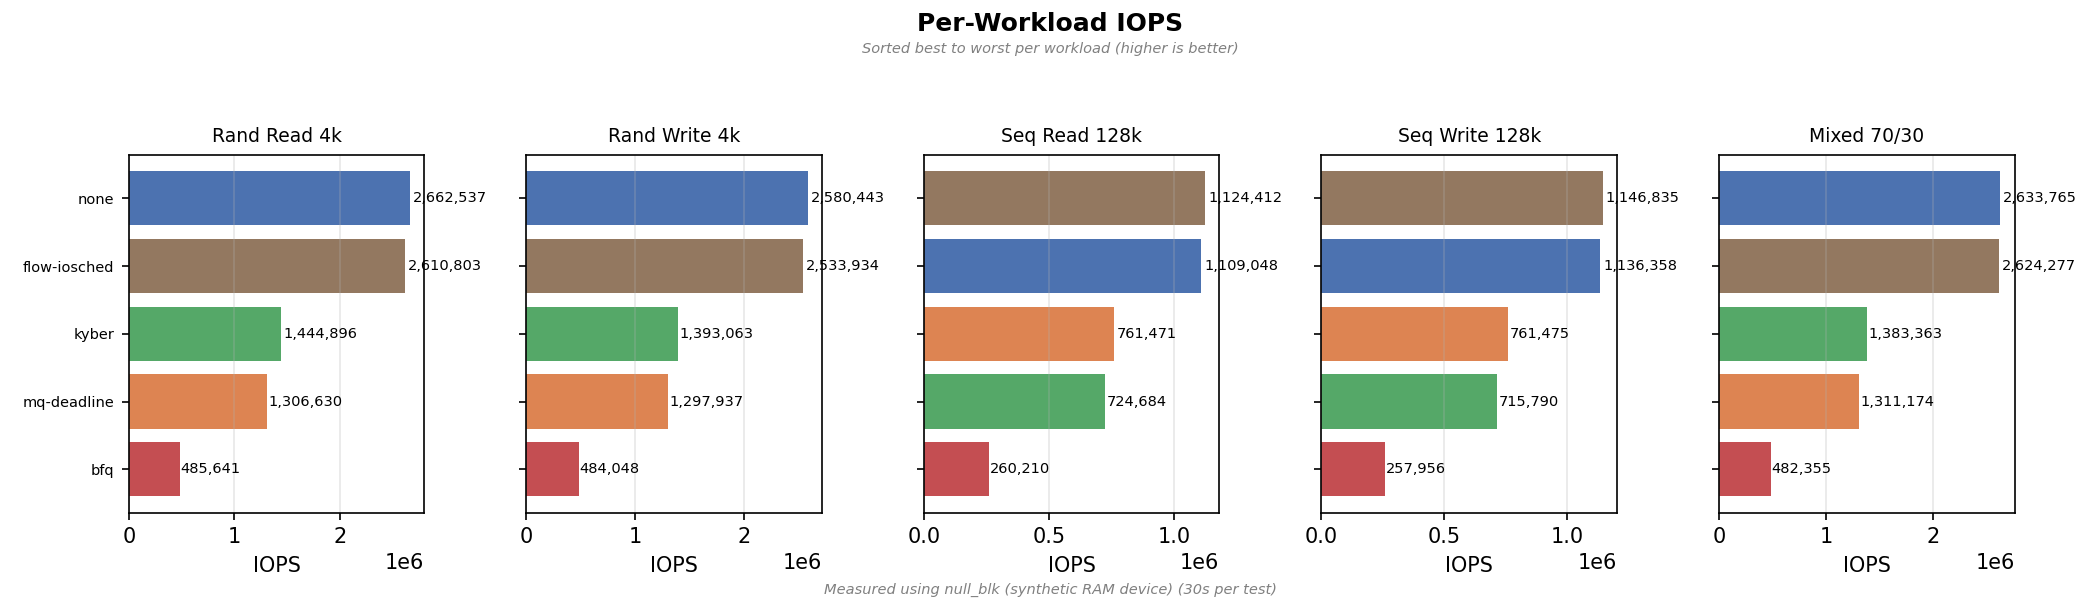
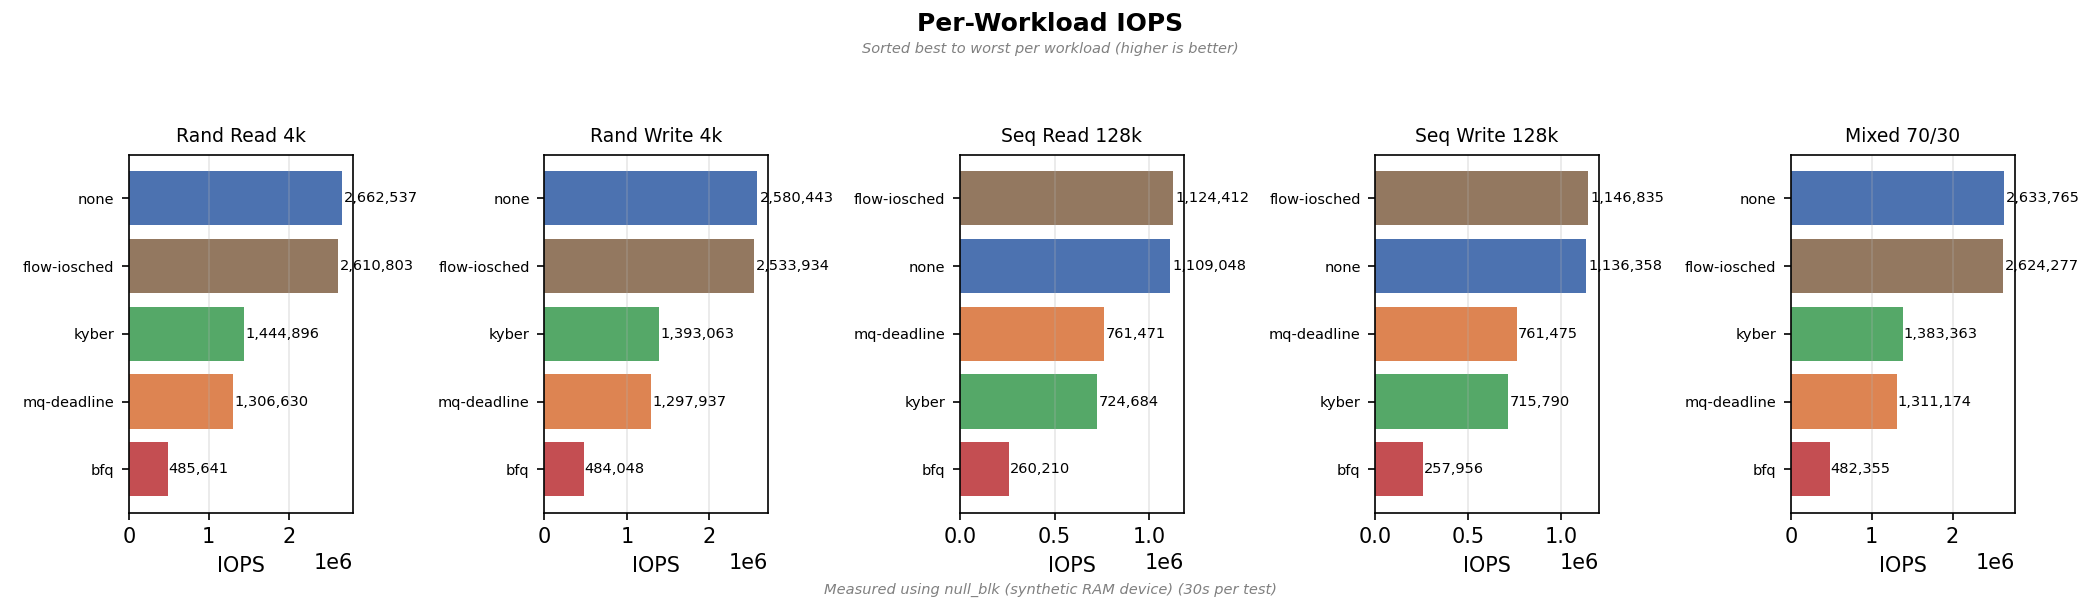
plot: fix sharey label propagation bug, xtick centering, dead code
Remove sharey=True from per_workload and comparison charts — each subplot now has its own correctly ordered y-axis labels instead of inheriting wrong labels from the last subplot. Fix group bar x-tick alignment to use width * len(schedulers) / 2 (was off by half a bar width). Clean up redundant metadata label branches.

diff --git a/bench-tests/plot-results.py b/bench-tests/plot-results.py
@@ -40,10 +40,7 @@ if os.path.isfile(META_PATH):
                 meta[k] = v
     device_label = meta.get("label", meta.get("device", "unknown"))
     runtime = meta.get("runtime", "?")
-    if meta.get("null_blk") == "true":
-        MEASUREMENT_LABEL = f"Measured using {device_label} ({runtime}s per test)"
-    else:
-        MEASUREMENT_LABEL = f"Measured using {device_label} ({runtime}s per test)"
+    MEASUREMENT_LABEL = f"Measured using {device_label} ({runtime}s per test)"
 else:
     MEASUREMENT_LABEL = ""
 
@@ -153,7 +150,7 @@ for i, sched in enumerate(sched_order_iops):
 ax.set_ylabel("Total IOPS")
 fig.suptitle("I/O Scheduler Comparison — Total IOPS", fontsize=12, fontweight="bold")
 add_sorting_note(fig, "Sorted best to worst by average total IOPS (higher is better)")
-ax.set_xticks(x + width * (len(schedulers) - 1) / 2)
+ax.set_xticks(x + width * len(schedulers) / 2)
 ax.set_xticklabels(wl_labels)
 ax.legend(loc="upper center", bbox_to_anchor=(0.5, -0.08), ncol=len(schedulers), fontsize=7)
 ax.grid(axis="y", alpha=0.3)
@@ -192,7 +189,7 @@ for i, sched in enumerate(sched_order_lat):
 ax.set_ylabel("Read latency (µs)")
 fig.suptitle("I/O Scheduler Comparison — Read Latency", fontsize=12, fontweight="bold")
 add_sorting_note(fig, "Sorted best to worst by average read latency (lower is better)")
-ax.set_xticks(x + width * (len(schedulers) - 1) / 2)
+ax.set_xticks(x + width * len(schedulers) / 2)
 ax.set_xticklabels(wl_labels)
 # Annotate write-only workloads (no read latency to show)
 for wi, wl in enumerate(workloads):
@@ -201,7 +198,7 @@ for wi, wl in enumerate(workloads):
         for row in rows if row["workload"] == wl
     )
     if all_zero:
-        ax.text(x[wi] + width * (len(schedulers) - 1) / 2, 0.08,
+        ax.text(x[wi] + width * len(schedulers) / 2, 0.08,
                 "write-only\n(no reads)", ha="center", va="bottom",
                 fontsize=6, color="gray", transform=ax.get_xaxis_transform())
 ax.legend(loc="upper center", bbox_to_anchor=(0.5, -0.08), ncol=len(schedulers), fontsize=7)
@@ -215,7 +212,7 @@ plt.close(fig)
 print(f"  → {CHARTS}/latency.png")
 
 # ── 3. Per-workload IOPS (horizontal bars, sorted best first per workload) ──
-fig, axes = plt.subplots(1, len(workloads), figsize=(14, 4), sharey=True)
+fig, axes = plt.subplots(1, len(workloads), figsize=(14, 4))
 for wi, wl in enumerate(workloads):
     ax = axes[wi]
     pairs = []
@@ -259,7 +256,7 @@ metrics = [
      lambda m: m["write_lat_us"],
      lambda m: m["write_iops"] > 0),  # only workloads with writes
 ]
-fig, axes = plt.subplots(1, len(metrics), figsize=(14, 5), sharey=True)
+fig, axes = plt.subplots(1, len(metrics), figsize=(14, 5))
 if len(metrics) == 1:
     axes = [axes]
 
